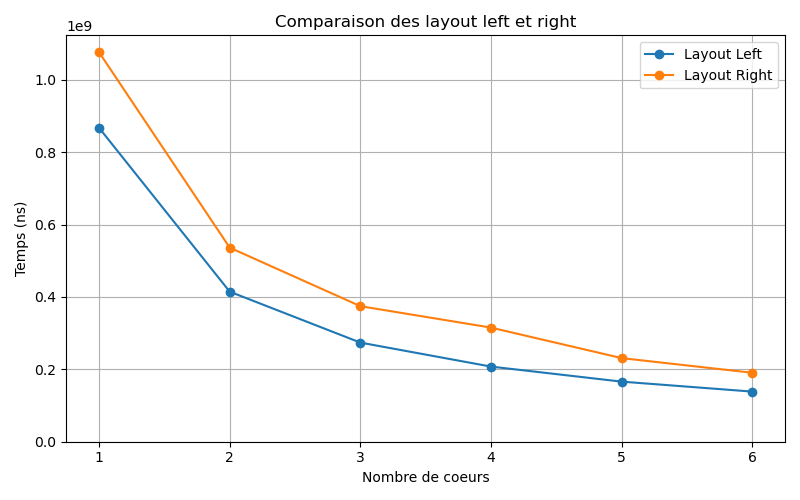
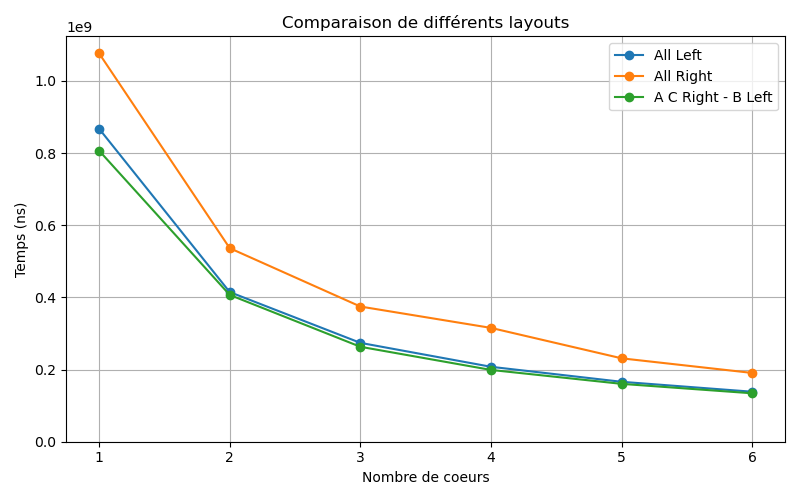
Droite gauche droite

diff --git a/main_comparaison.py b/main_comparaison.py
@@ -11,14 +11,15 @@ for ligne in f:
     nbCPU.append(int(parties[0]))
     duree.append(int(parties[1]))
 
-nbCPU=nbCPU[6:]
+nbCPU=nbCPU[:6]
 
 plt.figure(figsize=(8, 5))
-plt.plot(nbCPU, duree[:6], marker='o', linestyle='-', label='Layout Left')
-plt.plot(nbCPU, duree[6:], marker='o', linestyle='-', label='Layout Right')
+plt.plot(nbCPU, duree[:6], marker='o', linestyle='-', label='All Left')
+plt.plot(nbCPU, duree[6:12], marker='o', linestyle='-', label='All Right')
+plt.plot(nbCPU, duree[12:], marker='o', linestyle='-', label='A C Right - B Left')
 plt.xlabel("Nombre de coeurs")
 plt.ylabel("Temps (ns)")
-plt.title("Comparaison des layout left et right")
+plt.title("Comparaison de différents layouts")
 plt.grid(True)
 plt.tight_layout()
 plt.legend()
@@ -31,11 +32,12 @@ for d in duree:
     flops.append((2 * int(args[0]) * int(args[1]) * int(args[2])) / d)
 
 plt.figure(figsize=(8, 5))
-plt.plot(nbCPU, flops[:6], marker='o', linestyle='-', label='Layout Left')
-plt.plot(nbCPU, flops[6:], marker='o', linestyle='-', label='Layout Right')
+plt.plot(nbCPU, flops[:6], marker='o', linestyle='-', label='All Left')
+plt.plot(nbCPU, flops[6:12], marker='o', linestyle='-', label='All Right')
+plt.plot(nbCPU, flops[12:], marker='o', linestyle='-', label='A C Right - B Left')
 plt.xlabel("Nombre de coeurs")
 plt.ylabel("GFlops / s")
-plt.title("Comparaison des layout left et right")
+plt.title("Comparaison de différents layouts")
 plt.grid(True)
 plt.tight_layout()
 plt.legend()

diff --git a/src/main.cpp b/src/main.cpp
@@ -5,7 +5,8 @@
 #include <Kokkos_Core.hpp>
 #include <fmt/core.h>
 
-using Matrix = Kokkos::View<double**, Kokkos::LayoutRight>;
+using MatrixL = Kokkos::View<double**, Kokkos::LayoutLeft>;
+using MatrixR = Kokkos::View<double**, Kokkos::LayoutRight>;
 
 template <class MatrixType>
 auto matrix_init(MatrixType& M) -> void {
@@ -61,9 +62,9 @@ auto main(int argc, char* argv[]) -> int {
 
   Kokkos::initialize(argc, argv);
   {
-    auto A = Matrix("A", m, k);
-    auto B = Matrix("B", k, n);
-    auto C = Matrix("C", m, n);
+    auto A = MatrixR("A", m, k);
+    auto B = MatrixL("B", k, n);
+    auto C = MatrixR("C", m, n);
 
     double alpha = drand48();
     matrix_init(A);
